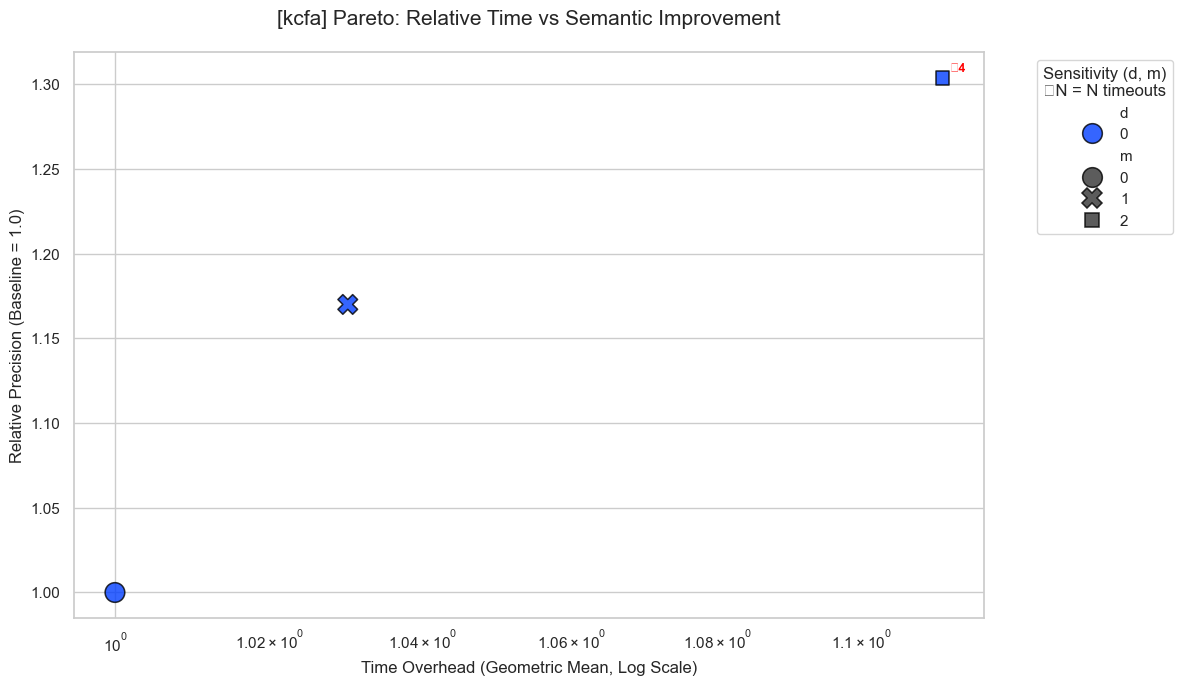
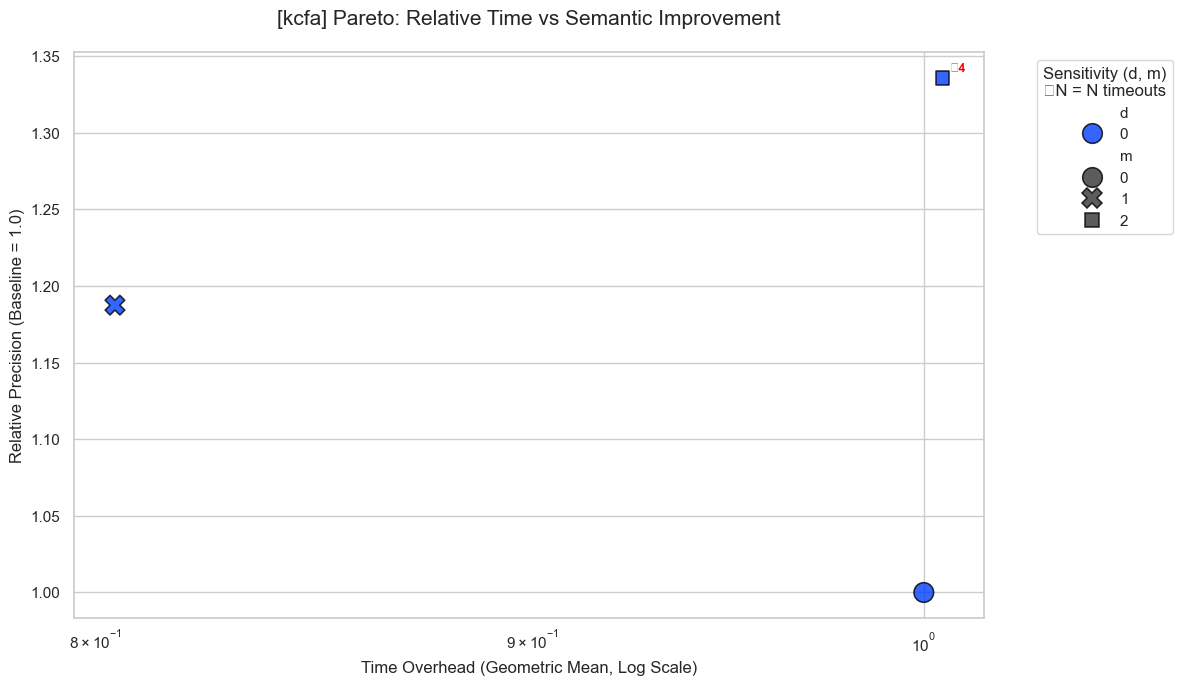
Fix a few things

diff --git a/full_comparison_with_kcfa.py b/full_comparison_with_kcfa.py
@@ -6,7 +6,7 @@ import json
 from pathlib import Path
 
 # Get the top benchmarks from dmcfar
-base_path_far = Path('benchmarks/old-results/dmcfar/2/2')
+base_path_far = Path('benchmarks/old-results/dmcfar/0/0')
 json_files = list(base_path_far.rglob('*.json'))
 
 benchmark_configs = []
@@ -17,7 +17,7 @@ for json_file in json_files:
             if data and not data.get('isTimeout', False) and 'storeMetrics' in data:
                 metrics = data.get('storeMetrics')
                 if metrics and 'numTotalFixInputStates' in metrics:
-                    configs = metrics['numTotalFixInputStates']
+                    configs = metrics['numTotalFixInputStates'] - metrics['numStoreAddresses']
                     benchmark_name = data.get('benchmarkName', '')
                     clean_name = benchmark_name.replace('analysis/benchmarks/', '')
                     benchmark_configs.append((clean_name, configs))
@@ -39,7 +39,7 @@ for benchmark_name, dmcfar_d2m2_configs in top_benchmarks:
     
     # Collect data from all variants
     # KCFA doesn't have object sensitivity (d), so it's always in folder 0/k where k is call-string depth
-    for variant, d, m in [('dmcfar', 0, 0), ('kcfa', 0, 2), ('dmcfae', 2, 2), ('dmcfar', 2, 2)]:
+    for variant, d, m in [('dmcfar', 0, 0), ('kcfa', 0, 2), ('dmcfae', 1, 1), ('dmcfar', 1, 1)]:
         path = Path(f'benchmarks/old-results/{variant}/{d}/{m}')
         found = False
         
@@ -61,7 +61,7 @@ for benchmark_name, dmcfar_d2m2_configs in top_benchmarks:
                             metrics = data['storeMetrics']
                             if 'numTotalFixInputStates' in metrics:
                                 result[f'{key}_status'] = 'OK'
-                                result[f'{key}_configs'] = metrics['numTotalFixInputStates']
+                                result[f'{key}_configs'] = metrics['numTotalFixInputStates'] - metrics['numStoreAddresses']
                                 result[f'{key}_time'] = avg_time
                             else:
                                 result[f'{key}_status'] = 'NO_METRICS'
@@ -86,7 +86,7 @@ for benchmark_name, dmcfar_d2m2_configs in top_benchmarks:
 
 # Print table
 print(f"{'Benchmark':<40} {'0-CFA':<15} {'KCFA':<15} {'DMCFAE':<15} {'DMCFAR':<15}")
-print(f"{'':40} {'(d=0,m=0)':<15} {'(d=2,m=2)':<15} {'(d=2,m=2)':<15} {'(d=2,m=2)':<15}")
+print(f"{'':40} {'(d=0,m=0)':<15} {'(d=0,m=2)':<15} {'(d=2,m=2)':<15} {'(d=2,m=2)':<15}")
 print("-" * 120)
 
 for r in results:
@@ -103,7 +103,7 @@ for r in results:
         else:
             return status
     
-    print(f"{name:<40} {fmt_cfg('dmcfar_0_0'):<15} {fmt_cfg('kcfa_2_2'):<15} {fmt_cfg('dmcfae_2_2'):<15} {fmt_cfg('dmcfar_2_2'):<15}")
+    print(f"{name:<40} {fmt_cfg('dmcfar_0_0'):<15} {fmt_cfg('kcfa_0_2'):<15} {fmt_cfg('dmcfae_1_1'):<15} {fmt_cfg('dmcfar_1_1'):<15}")
 
 print()
 print("=" * 120)
@@ -125,7 +125,7 @@ for r in results:
         else:
             return '---'
     
-    print(f"{name:<40} {fmt_time('dmcfar_0_0'):<12} {fmt_time('kcfa_2_2'):<12} {fmt_time('dmcfae_2_2'):<12} {fmt_time('dmcfar_2_2'):<12}")
+    print(f"{name:<40} {fmt_time('dmcfar_0_0'):<12} {fmt_time('kcfa_0_2'):<12} {fmt_time('dmcfae_1_1'):<12} {fmt_time('dmcfar_1_1'):<12}")
 
 print()
 print("=" * 120)
@@ -139,9 +139,9 @@ for r in results:
     name = r['name'][:38] + '..' if len(r['name']) > 40 else r['name']
     
     d0m0_configs = r.get('dmcfar_0_0_configs')
-    d2m2_configs = r.get('dmcfar_2_2_configs')
+    d2m2_configs = r.get('dmcfar_1_1_configs')
     d0m0_time = r.get('dmcfar_0_0_time')
-    d2m2_time = r.get('dmcfar_2_2_time')
+    d2m2_time = r.get('dmcfar_1_1_time')
     
     if d0m0_configs and d2m2_configs and d0m0_time and d2m2_time and d0m0_configs > 0 and d0m0_time > 0:
         config_explosion = d2m2_configs / d0m0_configs

diff --git a/compare_dmcfae_dmcfar.py b/compare_dmcfae_dmcfar.py
@@ -6,7 +6,7 @@ import json
 from pathlib import Path
 
 # Get the same top benchmarks
-base_path_far = Path('benchmarks/old-results/dmcfar/2/2')
+base_path_far = Path('benchmarks/old-results/dmcfar/0/0')
 json_files = list(base_path_far.rglob('*.json'))
 
 benchmark_configs = []
@@ -17,7 +17,7 @@ for json_file in json_files:
             if data and not data.get('isTimeout', False) and 'storeMetrics' in data:
                 metrics = data.get('storeMetrics')
                 if metrics and 'numTotalFixInputStates' in metrics:
-                    configs = metrics['numTotalFixInputStates']
+                    configs = metrics['numTotalFixInputStates'] - metrics['numStoreAddresses']
                     benchmark_name = data.get('benchmarkName', '')
                     clean_name = benchmark_name.replace('analysis/benchmarks/', '')
                     benchmark_configs.append((clean_name, configs))

diff --git a/count_configs.py b/count_configs.py
@@ -2,8 +2,8 @@
 import json
 from pathlib import Path
 
-# Find all JSON files in dmcfae/2/2
-base_path = Path('benchmarks/old-results/dmcfae/2/2')
+# Find all JSON files in dmcfae/0/0
+base_path = Path('benchmarks/old-results/dmcfar/0/0')
 json_files = list(base_path.rglob('*.json'))
 
 total_configs = 0
@@ -19,7 +19,7 @@ for json_file in json_files:
             if data and 'storeMetrics' in data:
                 metrics = data.get('storeMetrics')
                 if metrics and 'numTotalFixInputStates' in metrics:
-                    configs = metrics['numTotalFixInputStates']
+                    configs = metrics['numTotalFixInputStates'] - metrics['numStoreAddresses']
                     total_configs += configs
                     files_with_data += 1
                     benchmark_name = data.get('benchmarkName', json_file.name)
